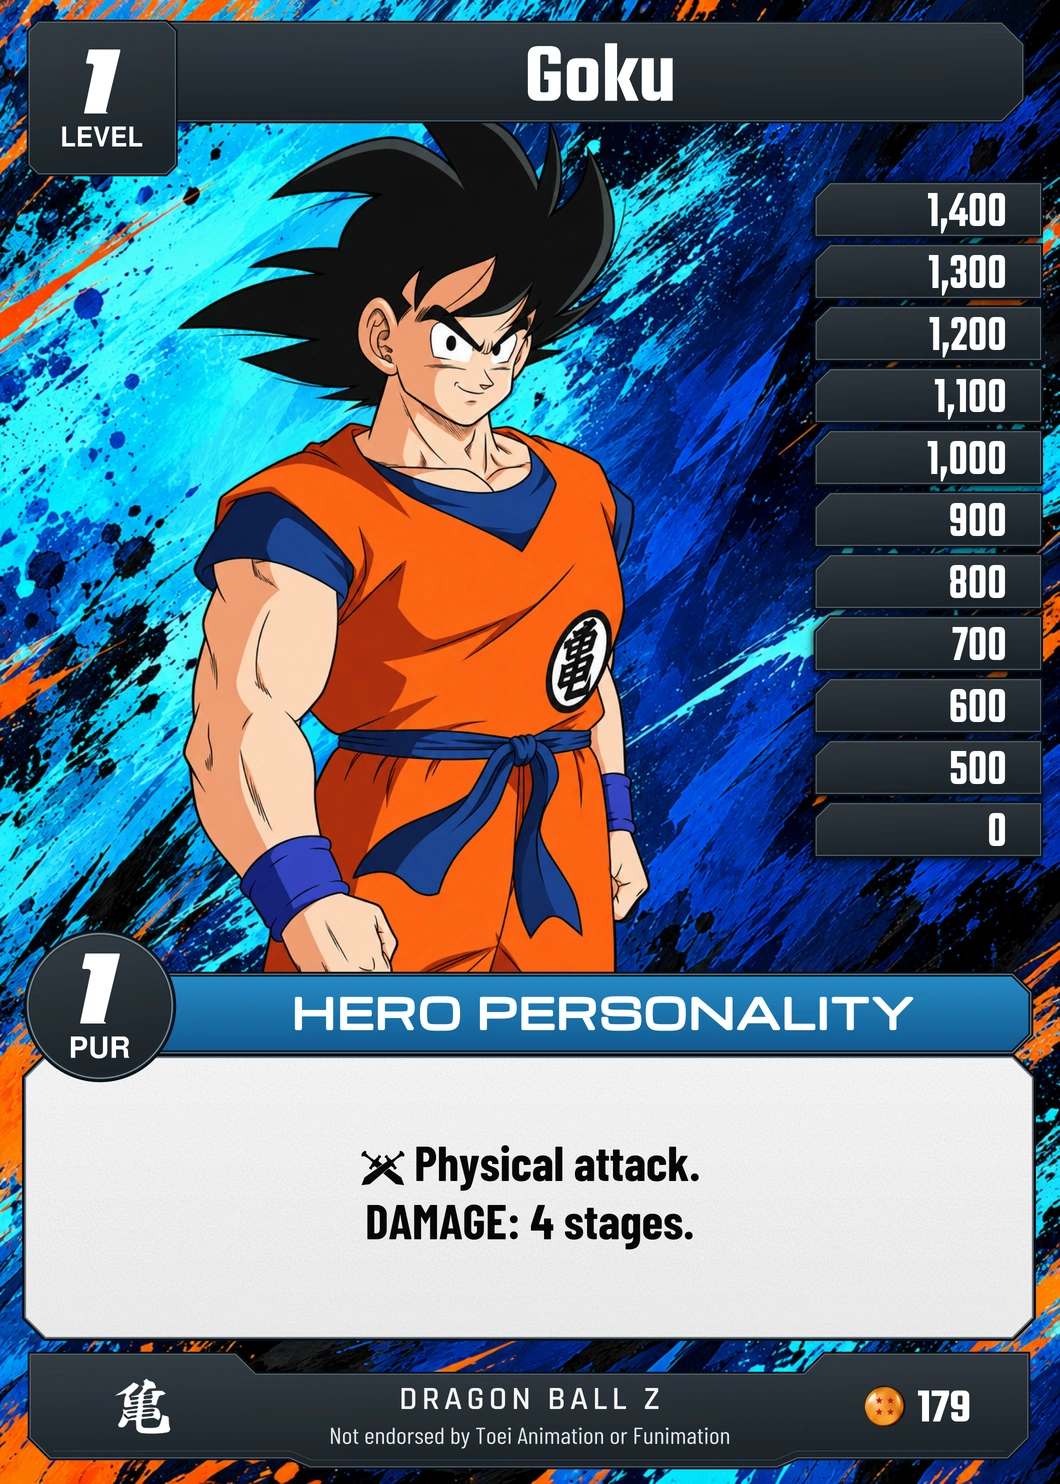
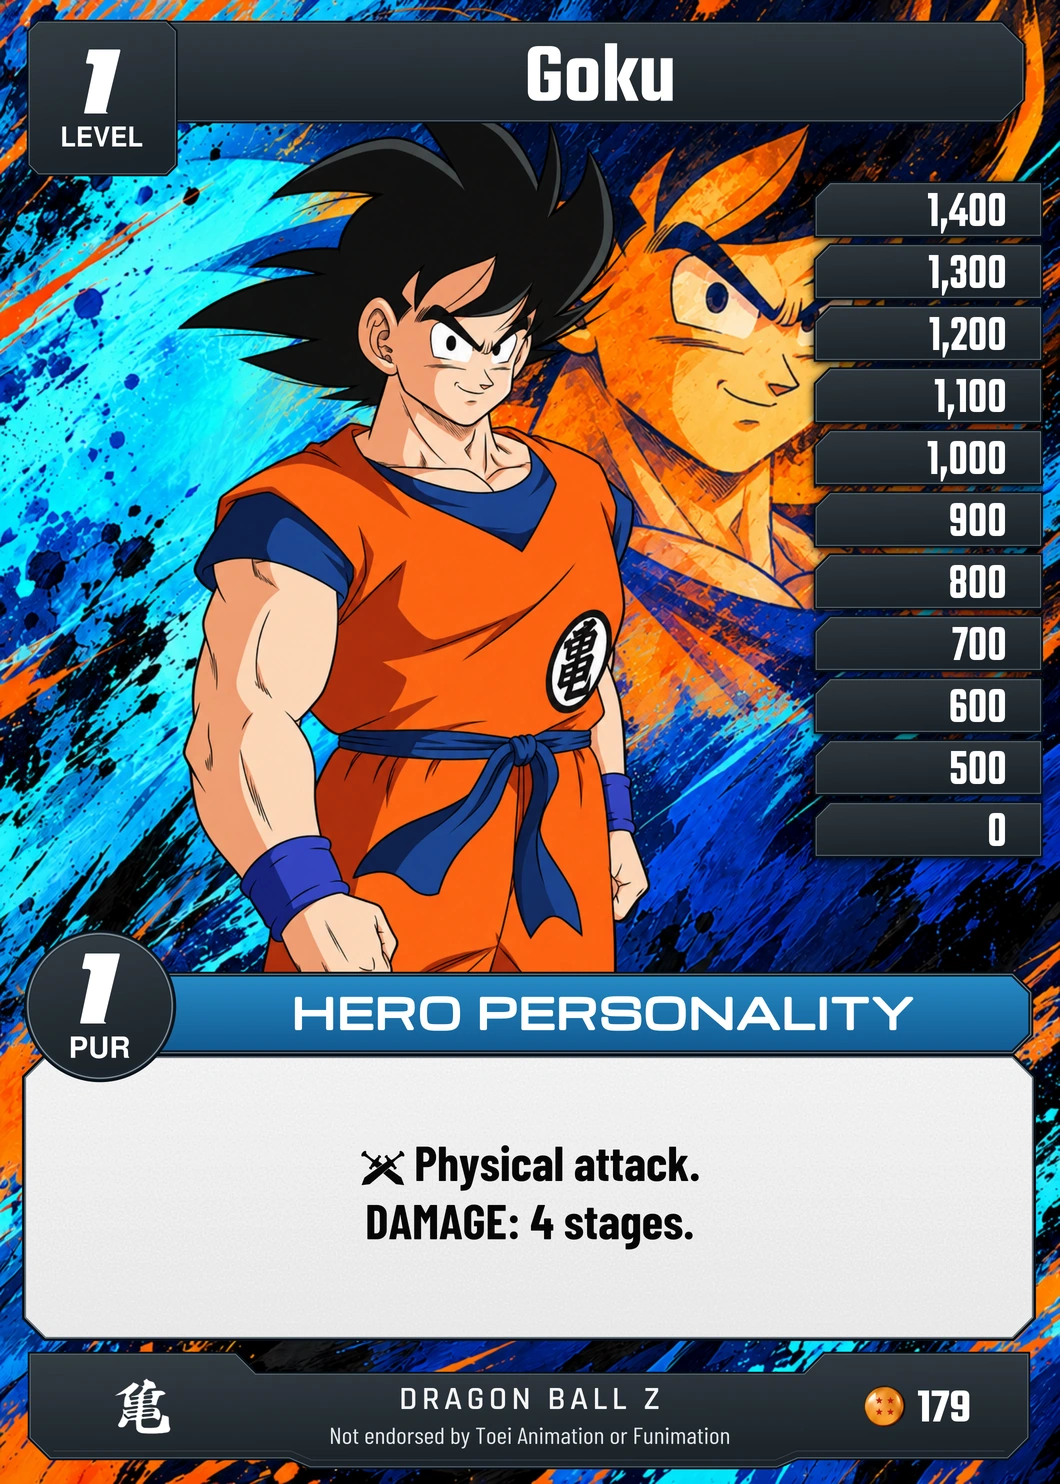
Add Goku Hi-Tech background silhouette to match Piccolo
Update card 179 with an oversized tonal portrait in the painted background. Preserve the supplied foreground cutout, framing, native V2 panels and all game data. Refresh display and lossless download image versions.

diff --git a/public/cards/catalog.js b/public/cards/catalog.js
@@ -323,7 +323,7 @@ export const catalog = [
   },
   {
     "id": "saiyan-024-gokus-surprise-attack",
-    "name": "Goku\u2019s Surprise Attack",
+    "name": "Goku’s Surprise Attack",
     "number": "24",
     "type": "Physical Combat",
     "style": "Freestyle",
@@ -337,7 +337,7 @@ export const catalog = [
   },
   {
     "id": "saiyan-025-gokus-physical-attack",
-    "name": "Goku\u2019s Physical Attack",
+    "name": "Goku’s Physical Attack",
     "number": "25",
     "type": "Physical Combat",
     "style": "Freestyle",
@@ -351,7 +351,7 @@ export const catalog = [
   },
   {
     "id": "saiyan-026-gohans-physical-attack",
-    "name": "Gohan\u2019s Physical Attack",
+    "name": "Gohan’s Physical Attack",
     "number": "26",
     "type": "Physical Combat",
     "style": "Freestyle",
@@ -365,7 +365,7 @@ export const catalog = [
   },
   {
     "id": "saiyan-027-tiens-physical-attack",
-    "name": "Tien\u2019s Physical Attack",
+    "name": "Tien’s Physical Attack",
     "number": "27",
     "type": "Physical Combat",
     "style": "Freestyle",
@@ -379,7 +379,7 @@ export const catalog = [
   },
   {
     "id": "saiyan-028-vegetas-physical-stance",
-    "name": "Vegeta\u2019s Physical Stance",
+    "name": "Vegeta’s Physical Stance",
     "number": "28",
     "type": "Physical Combat",
     "style": "Freestyle",
@@ -393,7 +393,7 @@ export const catalog = [
   },
   {
     "id": "saiyan-029-yajirobes-physical-attack",
-    "name": "Yajirobe\u2019s Physical Attack",
+    "name": "Yajirobe’s Physical Attack",
     "number": "29",
     "type": "Physical Combat",
     "style": "Freestyle",
@@ -449,7 +449,7 @@ export const catalog = [
   },
   {
     "id": "saiyan-033-its-the-little-things-that-matter",
-    "name": "It\u2019s the Little Things That Matter",
+    "name": "It’s the Little Things That Matter",
     "number": "33",
     "type": "Setup",
     "style": "Freestyle",
@@ -659,7 +659,7 @@ export const catalog = [
   },
   {
     "id": "saiyan-048-gokus-touch",
-    "name": "Goku\u2019s Touch",
+    "name": "Goku’s Touch",
     "number": "48",
     "type": "Setup",
     "style": "Freestyle",
@@ -2499,11 +2499,10 @@ export const catalog = [
     "style": "Freestyle",
     "set": "Saiyan Saga",
     "status": "Ready",
-    "image": "/assets/cards/saiyan-179-goku-lvl-1-ht.webp?v=c437d70a6f6f",
-    "source": "https://retrodbzccg.com/card-images/saiyan-saga-starter/",
+    "image": "/assets/cards/saiyan-179-goku-lvl-1-ht.webp?v=6cbf5b2eeb58",
     "width": 1060,
     "height": 1484,
-    "downloadImage": "/assets/cards/downloads/saiyan-179-goku-lvl-1-ht.webp?v=100b38f68fbb"
+    "downloadImage": "/assets/cards/downloads/saiyan-179-goku-lvl-1-ht.webp?v=e4d7513d9c27"
   },
   {
     "id": "saiyan-180-piccolo-lvl-1-ht",
